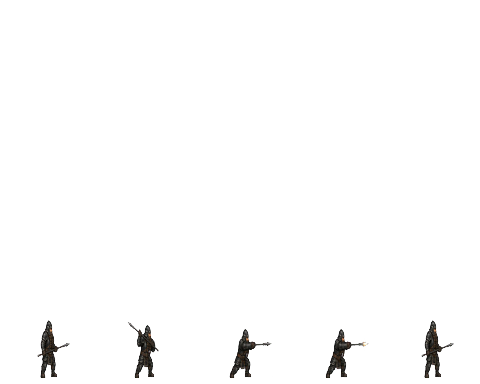
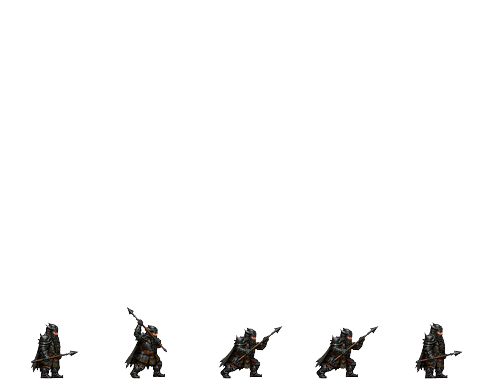
sprite: 仲間ドワーフを codex1 black-spiky 系 (walk=v8 / attack=v10b) へ差替
- 台帳: dwarf-warrior を第3陣形式 (walk/attack 同一フォルダ) の glob 指定へ。
  char_ratio 0.6836 -> 0.6097 を体基準で逆算 (新素材は槍を水平に構えるので
  body/bbox が 0.8425 -> 0.9226 に変わる)。出力 walk 体高 54px = 主人公ドワーフ
  と同値。displaySize 96 据置 = 当たり判定不変。
- index.html: SPRITE_VARIANTS.dwarf 変種1-3 を ?v=3 へ。今回は walk シートも
  バイトが変わったので walk にも付与した。tavern.html の PARTY_PORTRAIT_SPRITES は
  「?v= を付けない」明文ルールがあるため素パスのまま。
- codex1 納品 3 版のうち PASS は v10b のみだが、v10b は v10 と source.png /
  transparent.png がバイト同一で、差分は手作業2点 (スケール +7% / attack frame-04 を
  frame-03 のバイトコピーへ差替) だった。check_pose_alignment.py は重複コマを
  検知しないのですり抜ける。6 コマを保った v10c も作り WARN ゼロで PASS させたが、
  本物のランジは 96px セルに収まらず (槍が足元から右へ 60px / セル半幅 48px)、
  feet-fit だと体がタイル中心から 19px 左へずれて主人公ドワーフと不揃いになるため
  v10b を採用した。将来 frame-04 が narrower に描き直されれば v10c 手順で両立できる。

検証: driver_dwarf_spiky_swap.js 49/49 PASS (負のコントロール HEAD は 34/49)、
check_attack_scale --fail-on-warn は WARN 0 維持 (76枚)、分身チェック clean
(attack の候補2件は横に構えた槍の穂先と拡大目視で確認)、driver_variants.js の
18 FAIL は HEAD と失敗集合が完全一致する陳腐化ドライバ由来で回帰なし。

diff --git a/index.html b/index.html
@@ -11394,9 +11394,13 @@
         // 変種 1-3 は codex1 "ドワーウォリアー" 1 枚を共有する (2026-07-28 差替。旧 chibi 3 種は
         // assets/dwarf_{berserker,shield,rune}_* に残置)。label はどこからも読まれない内部識別子
         // なので、将来 codex1 側で別デザインが出たら該当行の url だけ差し替えれば再び 3 種に割れる。
-        { walk: 'url("assets/dwarf_warrior_walk.png")', walkSize: "576px 384px", attack: 'url("assets/dwarf_warrior_attack.png?v=2")', attackSize: "480px 384px", label: "バーサーカー" },
-        { walk: 'url("assets/dwarf_warrior_walk.png")', walkSize: "576px 384px", attack: 'url("assets/dwarf_warrior_attack.png?v=2")', attackSize: "480px 384px", label: "盾の守り手" },
-        { walk: 'url("assets/dwarf_warrior_walk.png")', walkSize: "576px 384px", attack: 'url("assets/dwarf_warrior_attack.png?v=2")', attackSize: "480px 384px", label: "ルーンスミス" },
+        // 2026-07-29: black-spiky 系 (walk=v8 / attack=v10b) へ再差替。今回は **walk シートもバイトが
+        // 変わった** ので walk にも ?v= を付けた (前回は walk 不変だったので attack だけ ?v=2 だった)。
+        // ⚠ tavern.html の PARTY_PORTRAIT_SPRITES は同じ PNG を **素パス** で参照する (あちらは
+        //   「?v= を付けない」が明文ルール = tavern.html の該当コメント参照)。差替時は両方を見ること。
+        { walk: 'url("assets/dwarf_warrior_walk.png?v=3")', walkSize: "576px 384px", attack: 'url("assets/dwarf_warrior_attack.png?v=3")', attackSize: "480px 384px", label: "バーサーカー" },
+        { walk: 'url("assets/dwarf_warrior_walk.png?v=3")', walkSize: "576px 384px", attack: 'url("assets/dwarf_warrior_attack.png?v=3")', attackSize: "480px 384px", label: "盾の守り手" },
+        { walk: 'url("assets/dwarf_warrior_walk.png?v=3")', walkSize: "576px 384px", attack: 'url("assets/dwarf_warrior_attack.png?v=3")', attackSize: "480px 384px", label: "ルーンスミス" },
       ],
       cleric: [
         { walk: CLERIC_WALK_URL, walkSize: CLERIC_WALK_SIZE, attack: CLERIC_ATTACK_URL, attackSize: CLERIC_ATTACK_SIZE, label: "標準" },

diff --git a/tavern.html b/tavern.html
@@ -1979,10 +1979,10 @@
     <div id="changelogBox">
       <div class="changelogHeader">📜 更新情報</div>
       <ul class="changelogList">
+        <li><b>仲間ドワーフの見た目を一新</b> — 黒い棘鎧に角付き兜、槍を構えた姿になった。歩きと攻撃で別人に見えていた不整合も解消。</li>
         <li><b>オーク将軍ガロックの姿を一新</b> — 砦の主が、髑髏を提げた戦斧使いの荒々しい姿になった。</li>
         <li><b>大型モンスターと僧侶の攻撃も実寸に</b> — キメラやグリフォン、アンバーハルク、残影の獣、ミミックなどが攻撃の瞬間だけ一回り小さく見えていたのを直しました。僧侶のメイス攻撃も歩く姿と同じ背丈になります。</li>
         <li><b>攻撃モーションの大きさのブレを解消</b> — ゴブリンやオーク、リザードマン、古代ハイドラなど10種で、攻撃した瞬間に体が一回り縮んで見える現象を直しました。</li>
-        <li><b>石の魔物には魔法の武器を</b> — 盗賊の不意打ちやドワーフの斧など、これまで素通りしていた技も石の巨人には弾かれ、ガーゴイルには半減するようになった。</li>
       </ul>
     </div>
     <script>
